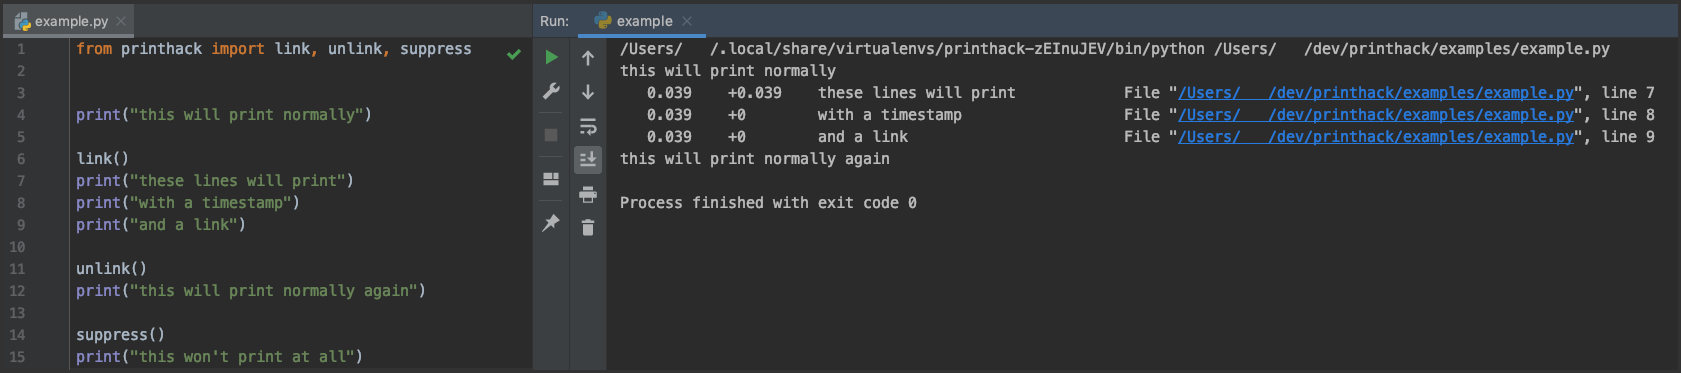
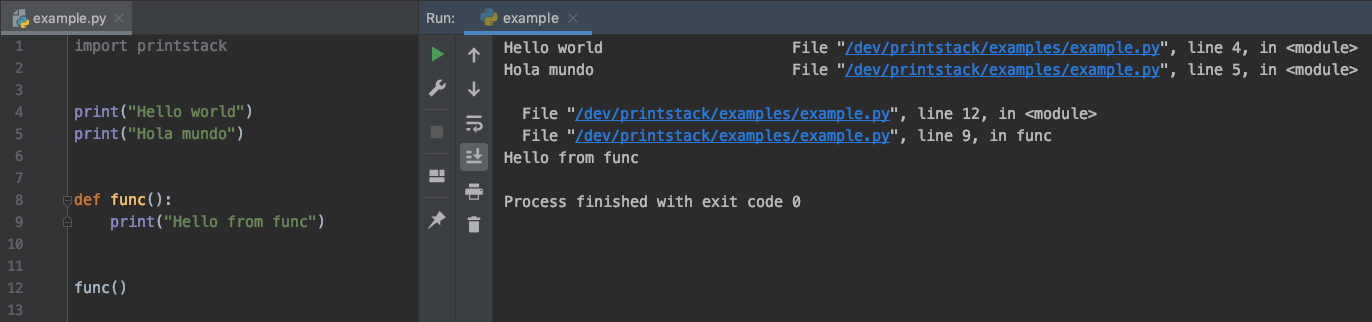
Renamed project to printstack

diff --git a/printstack/printstack.py b/printstack/printstack.py
@@ -16,7 +16,7 @@ def _enable() -> None:
     """
     Adds filename and line number to the builtin print function.
     """
-    def _print_link(*objects, sep=' ', end='\n', file=sys.stdout, flush=False) -> None:
+    def _printstack(*objects, sep=' ', end='\n', file=sys.stdout, flush=False) -> None:
         # Overrides `end` to preserve formatting
         end = '\n'
 
@@ -42,7 +42,7 @@ def _enable() -> None:
             padding = " " * (PAD_WIDTH - len(sep.join((f'{e}' for e in objects))))
             print_orig(*objects, padding, _link_str(stack_infos[0]), sep=sep, end=end, file=file, flush=flush)
 
-    builtins.print = _print_link
+    builtins.print = _printstack
 
 
 def _disable():

diff --git a/examples/example.py b/examples/example.py
@@ -1,4 +1,4 @@
-import printhack
+import printstack
 
 
 print("Hello world")

diff --git a/printstack/__init__.py b/printstack/__init__.py
@@ -1,0 +1,4 @@
+from .printstack import _enable
+
+
+_enable()

diff --git a/README.md b/README.md
@@ -1,20 +1,19 @@
-# printhack
+# printstack
 
 ## Description
 
-`printhack` appends a filename and line number to the output of the `print` function, so that editors such as PyCharm can link to the source of the `print` call.
+`printstack` adds stack trace links to the builtin print function, so that editors such as PyCharm can link you to the source of the `print` call.
 
 ![](examples/example.png?raw=true)
 
 ## Installation
 
-Install via:
-
-    pip install printhack
+    pip install printstack
 
 ## Usage
 
-Simply add the following code to your script to enhance your `print` statement:
+Simply import `printstack` to enhance the `print` function:
 
-    from printhack import link
-    link()
+    import printstack
+
+    print("Hello world")
